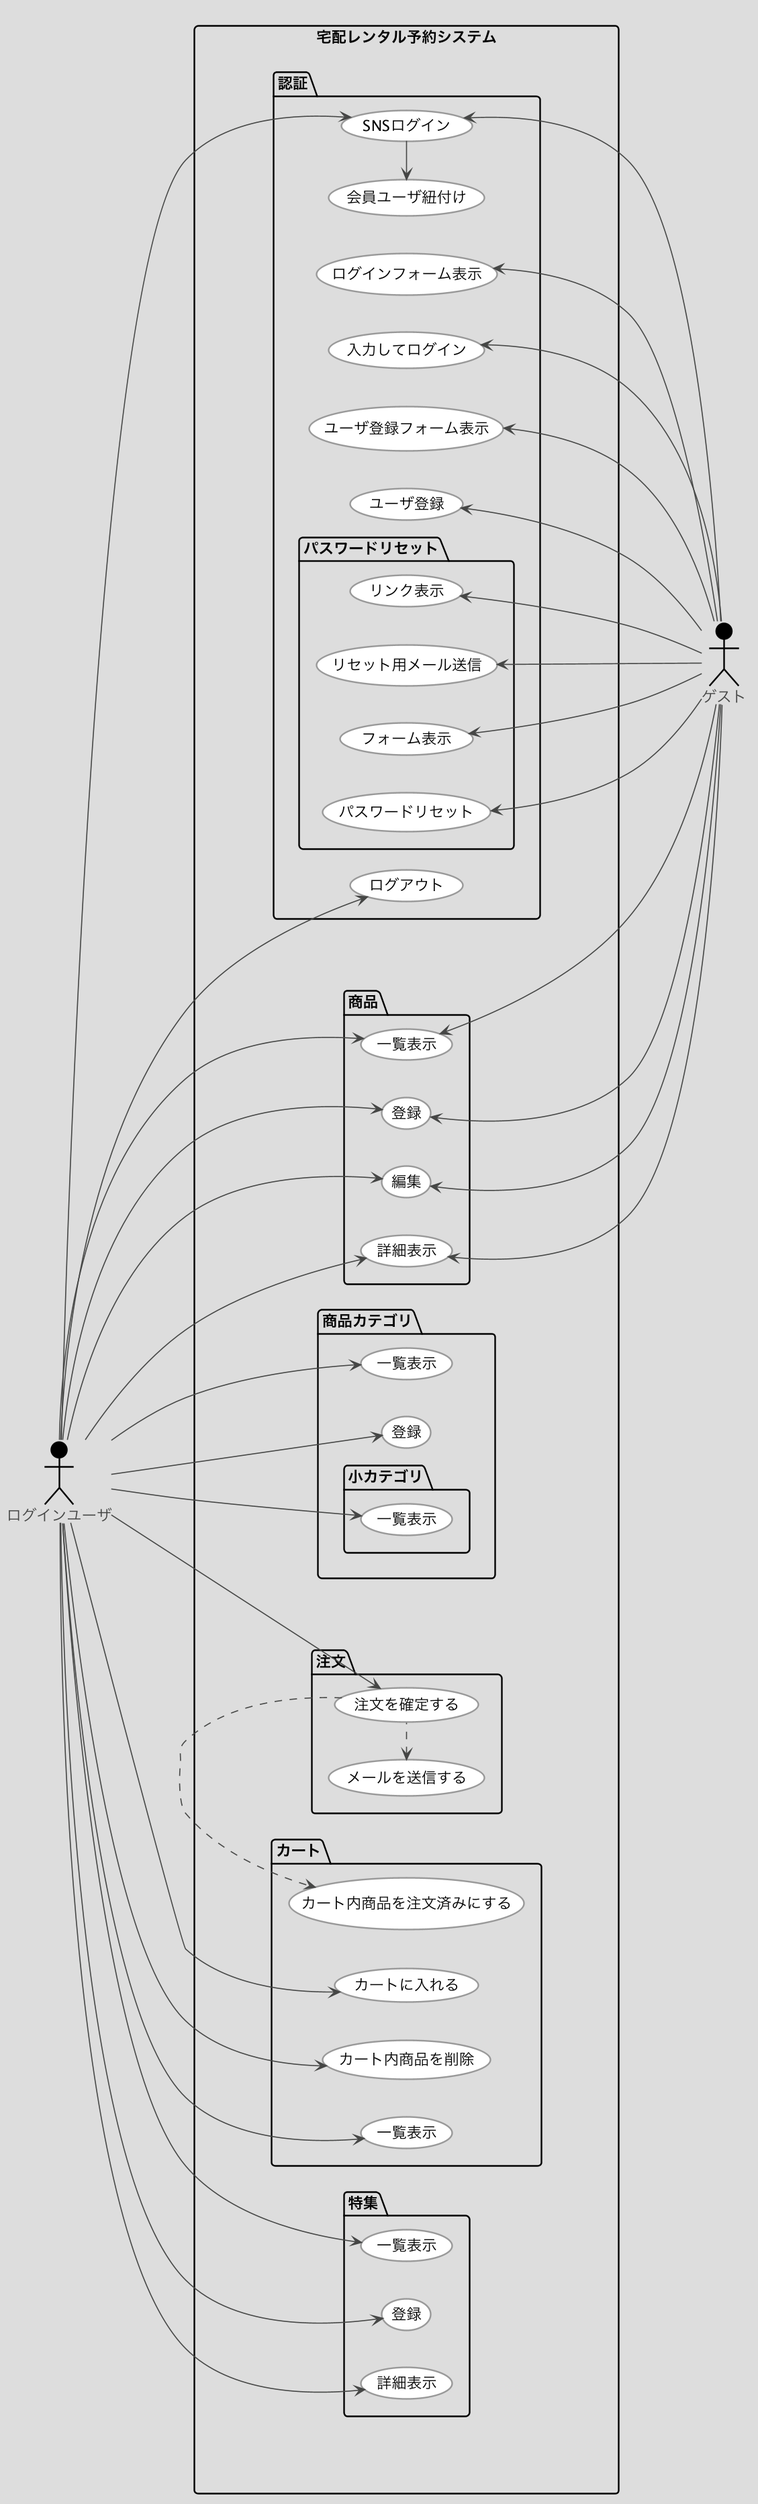
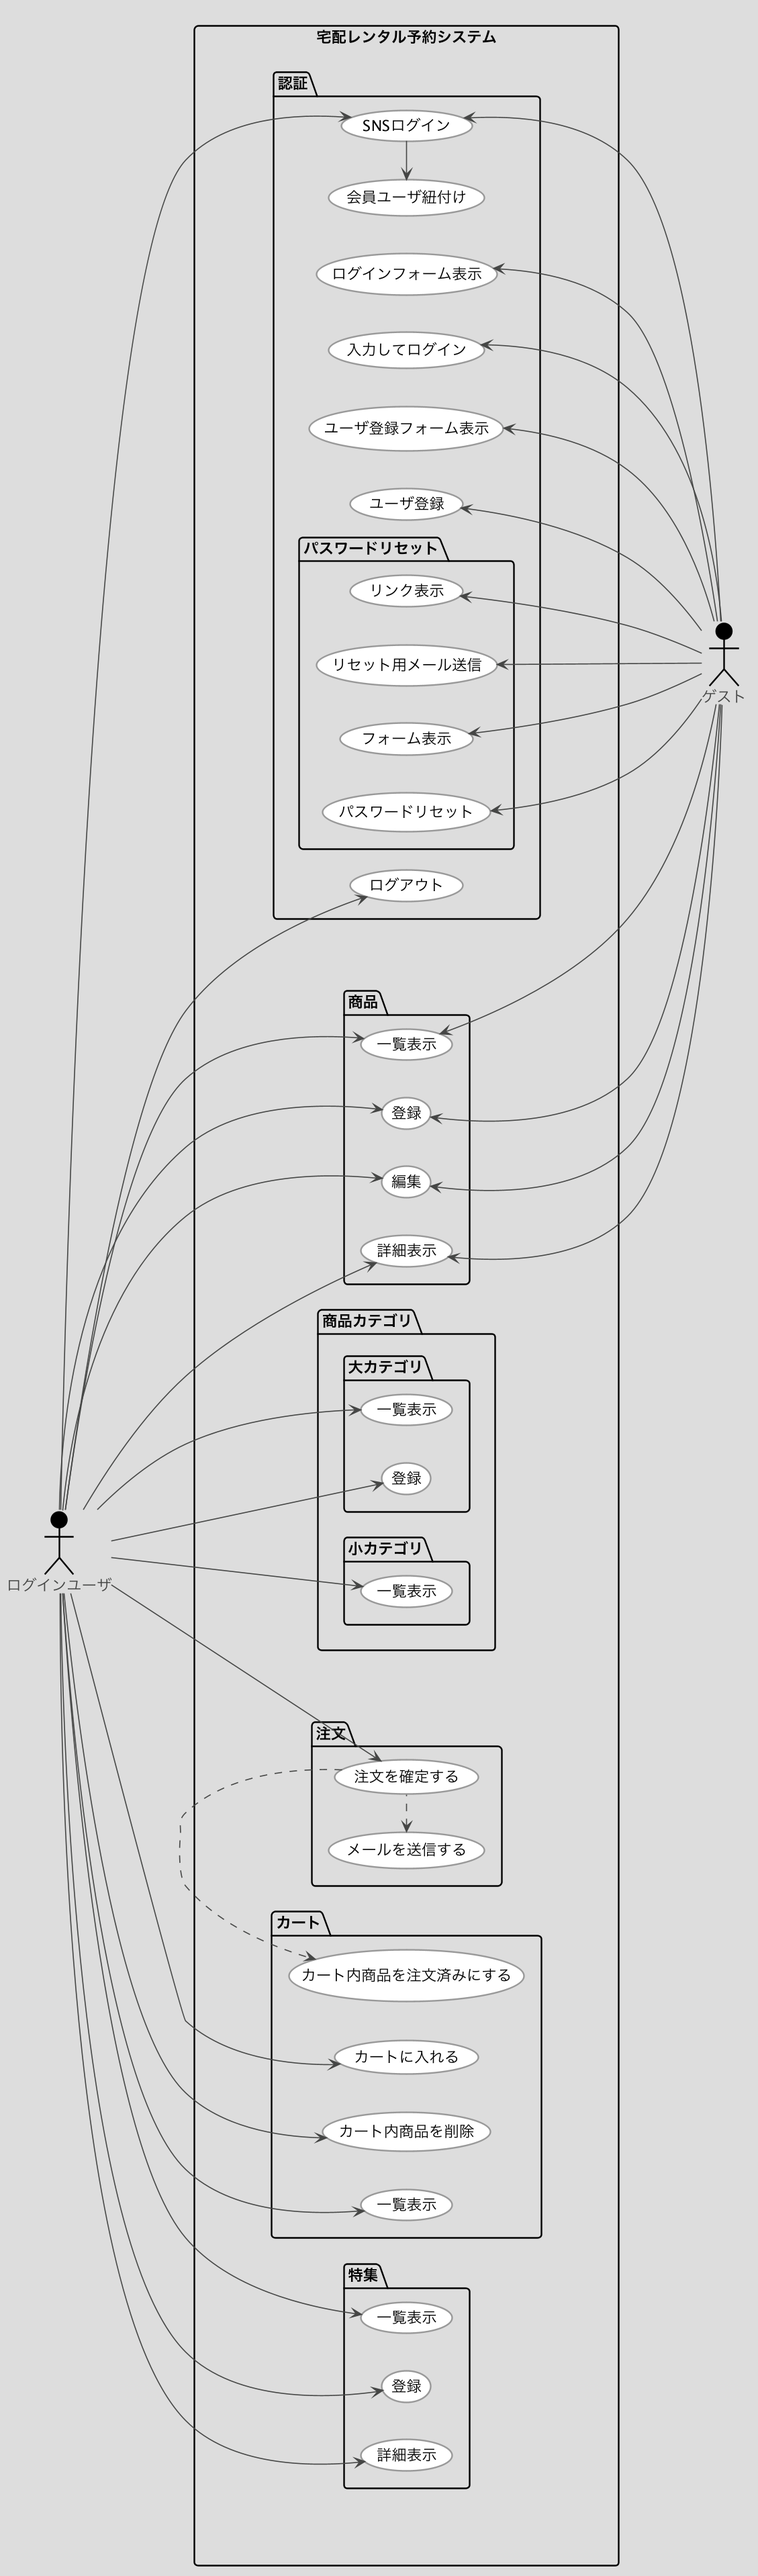
refactor:商品カテゴリを大カテゴリに変更 小カテゴリが追加されたことで、商品カテゴリの意味が曖昧になっているため

diff --git a/src/packages/商品カテゴリ/インフラ/リポジトリ/大カテゴリ/一覧表示クエリサービス.php b/src/packages/商品カテゴリ/インフラ/リポジトリ/大カテゴリ/一覧表示クエリサービス.php
@@ -1,0 +1,25 @@
+<?php
+
+declare(strict_types=1);
+
+namespace 商品カテゴリ\インフラ\リポジトリ\大カテゴリ;
+
+use 商品カテゴリ\アプリ\ユースケース\大カテゴリ\一覧表示クエリサービスインターフェース;
+use 商品カテゴリ\インフラ\エロクアント\大カテゴリエロクアント;
+use 商品カテゴリ\インフラ\レスポンスデータ\大カテゴリ\一覧表示クエリレスポンスデータ;
+
+class 一覧表示クエリサービス implements 一覧表示クエリサービスインターフェース
+{
+    private $大カテゴリエロクアント;
+
+    public function __construct(大カテゴリエロクアント $大カテゴリエロクアント)
+    {
+        $this->大カテゴリエロクアント = $大カテゴリエロクアント;
+    }
+
+    public function 全件取得(): 一覧表示クエリレスポンスデータ
+    {
+        $複数大カテゴリ = $this->大カテゴリエロクアント::all();
+        return new 一覧表示クエリレスポンスデータ($複数大カテゴリ);
+    }
+}

diff --git a/src/database/migrations/2020_12_01_000000_大カテゴリシーケンス作成.php b/src/database/migrations/2020_12_01_000000_大カテゴリシーケンス作成.php
@@ -5,7 +5,7 @@ use Illuminate\Database\Schema\Blueprint;
 use Illuminate\Support\Facades\DB;
 use Illuminate\Support\Facades\Schema;
 
-class 商品カテゴリシーケンス作成 extends Migration
+class 大カテゴリシーケンス作成 extends Migration
 {
     /**
      * Run the migrations.
@@ -14,10 +14,10 @@ class 商品カテゴリシーケンス作成 extends Migration
      */
     public function up()
     {
-        Schema::create('商品カテゴリシーケンス', function (Blueprint $table) {
+        Schema::create('大カテゴリシーケンス', function (Blueprint $table) {
             $table->bigInteger('id')->unsigned();
         });
-        DB::table('商品カテゴリシーケンス')->insert([
+        DB::table('大カテゴリシーケンス')->insert([
             ['id' => 0],
         ]);
     }
@@ -29,6 +29,6 @@ class 商品カテゴリシーケンス作成 extends Migration
      */
     public function down()
     {
-        Schema::dropIfExists('商品カテゴリシーケンス');
+        Schema::dropIfExists('大カテゴリシーケンス');
     }
 }

diff --git a/src/resources/views/商品カテゴリ/大カテゴリ/一覧.blade.php b/src/resources/views/商品カテゴリ/大カテゴリ/一覧.blade.php
@@ -5,17 +5,17 @@
     <div class="row justify-content-center">
         <div class="col-md-8">
             <div class="card">
-                <div class="card-header">カテゴリ一覧</div>
+                <div class="card-header">大カテゴリ一覧</div>
 
                 <table>
-                    @foreach ($複数カテゴリ->取得() as $商品カテゴリ)
+                    @foreach ($複数大カテゴリ->取得() as $大カテゴリ)
                     <tr>
-                        <td><a href="/category/small/{{ $商品カテゴリ->id() }}"> {{ $商品カテゴリ->名前() }} </a></td>
+                        <td><a href="/category/small/{{ $大カテゴリ->id() }}"> {{ $大カテゴリ->名前() }} </a></td>
                     </tr>
                     @endforeach
                 </table>
                 <br>
-                <a href="/category/register/"> 登録 </a>
+                <a href="/category/big/register/"> 登録 </a>
             </div>
         </div>
     </div>

diff --git a/src/database/migrations/2020_10_08_043131_大カテゴリテーブル作成.php b/src/database/migrations/2020_10_08_043131_大カテゴリテーブル作成.php
@@ -5,7 +5,7 @@ use Illuminate\Support\Facades\Schema;
 use Illuminate\Database\Schema\Blueprint;
 use Illuminate\Database\Migrations\Migration;
 
-class 商品カテゴリテーブル作成 extends Migration
+class 大カテゴリテーブル作成 extends Migration
 {
     /**
      * Run the migrations.
@@ -14,7 +14,7 @@ class 商品カテゴリテーブル作成 extends Migration
      */
     public function up()
     {
-        Schema::create('商品カテゴリ', function (Blueprint $table) {
+        Schema::create('大カテゴリ', function (Blueprint $table) {
             $table->bigInteger('id');
             $table->string('名前');
             $table->timestamps();
@@ -28,6 +28,6 @@ class 商品カテゴリテーブル作成 extends Migration
      */
     public function down()
     {
-        Schema::dropIfExists('商品カテゴリ');
+        Schema::dropIfExists('大カテゴリ');
     }
 }

diff --git a/src/routes/web.php b/src/routes/web.php
@@ -74,10 +74,10 @@ Route::post('/report/register', 特集登録コントローラ::class);
 
 Route::post('/order', 注文を確定するコントローラ::class);
 
-Route::get('/category', 商品カテゴリ一覧コントローラ::class)->name('category');
-Route::get('/category/small/{id}', 商品小カテゴリ一覧コントローラ::class);
-Route::get('/category/register', function () {
-    return view('商品カテゴリ.登録');
+Route::get('/category/big', 大カテゴリ一覧コントローラ::class)->name('category');
+Route::get('/category/small/{id}', 小カテゴリ一覧コントローラ::class);
+Route::get('/category/big/register', function () {
+    return view('商品カテゴリ.大カテゴリ.登録');
 });
 Route::post('/category/big/register', 大カテゴリ登録コントローラ::class);
 

diff --git a/src/packages/商品カテゴリ/プレゼンテーション/コントローラ/大カテゴリ/一覧コントローラ.php b/src/packages/商品カテゴリ/プレゼンテーション/コントローラ/大カテゴリ/一覧コントローラ.php
@@ -1,0 +1,25 @@
+<?php
+
+declare(strict_types=1);
+
+namespace 商品カテゴリ\プレゼンテーション\コントローラ\大カテゴリ;
+
+use App\Http\Controllers\Controller;
+use 商品カテゴリ\アプリ\ユースケース\大カテゴリ\一覧表示;
+
+class 一覧コントローラ extends Controller
+{
+    private $一覧表示;
+
+    public function __construct(一覧表示 $一覧表示)
+    {
+        $this->一覧表示 = $一覧表示;
+    }
+
+    public function __invoke()
+    {
+        $複数大カテゴリ = $this->一覧表示->実行();
+
+        return view('商品カテゴリ.大カテゴリ.一覧', ['複数大カテゴリ' => $複数大カテゴリ]);
+    }
+}

diff --git a/src/packages/商品カテゴリ/プレゼンテーション/コントローラ/大カテゴリ/登録コントローラ.php b/src/packages/商品カテゴリ/プレゼンテーション/コントローラ/大カテゴリ/登録コントローラ.php
@@ -2,11 +2,11 @@
 
 declare(strict_types=1);
 
-namespace 商品カテゴリ\プレゼンテーション\コントローラ;
+namespace 商品カテゴリ\プレゼンテーション\コントローラ\大カテゴリ;
 
 use App\Http\Controllers\Controller;
 use Illuminate\Http\Request;
-use 商品カテゴリ\アプリ\ユースケース\登録;
+use 商品カテゴリ\アプリ\ユースケース\大カテゴリ\登録;
 
 class 登録コントローラ extends Controller
 {
@@ -21,6 +21,6 @@ class 登録コントローラ extends Controller
     {
         $this->登録->実行($リクエスト->名前);
 
-        return redirect('/category/');
+        return redirect('/category/big');
     }
 }

diff --git a/src/resources/views/商品カテゴリ/大カテゴリ/登録.blade.php b/src/resources/views/商品カテゴリ/大カテゴリ/登録.blade.php
@@ -5,9 +5,9 @@
     <div class="row justify-content-center">
         <div class="col-md-8">
             <div class="card">
-                <div class="card-header">カテゴリ登録</div>
+                <div class="card-header">大カテゴリ登録</div>
 
-                <form action="{{ url("/category/register")}}" method="POST">
+                <form action="{{ url("/category/big/register")}}" method="POST">
                     {{ csrf_field() }}
 
                     名前：<input type="text" name="名前"><br>

diff --git a/src/packages/商品カテゴリ/プレゼンテーション/ビューモデル/大カテゴリ/一覧ビューモデル.php b/src/packages/商品カテゴリ/プレゼンテーション/ビューモデル/大カテゴリ/一覧ビューモデル.php
@@ -2,9 +2,9 @@
 
 declare(strict_types=1);
 
-namespace 商品カテゴリ\プレゼンテーション\ビューモデル;
+namespace 商品カテゴリ\プレゼンテーション\ビューモデル\大カテゴリ;;
 
-use 商品カテゴリ\インフラ\レスポンスデータ\一覧表示クエリレスポンスデータ;
+use 商品カテゴリ\インフラ\レスポンスデータ\大カテゴリ\一覧表示クエリレスポンスデータ;
 
 class 一覧ビューモデル
 {
